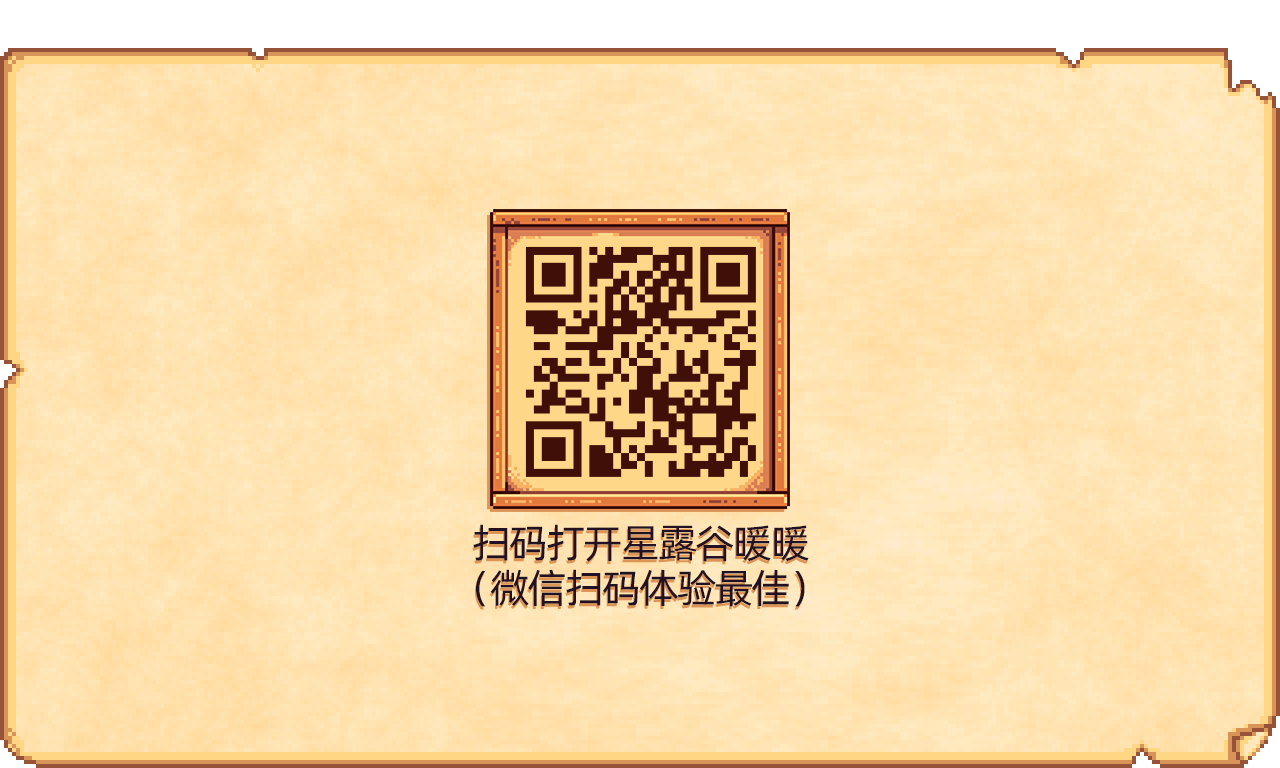
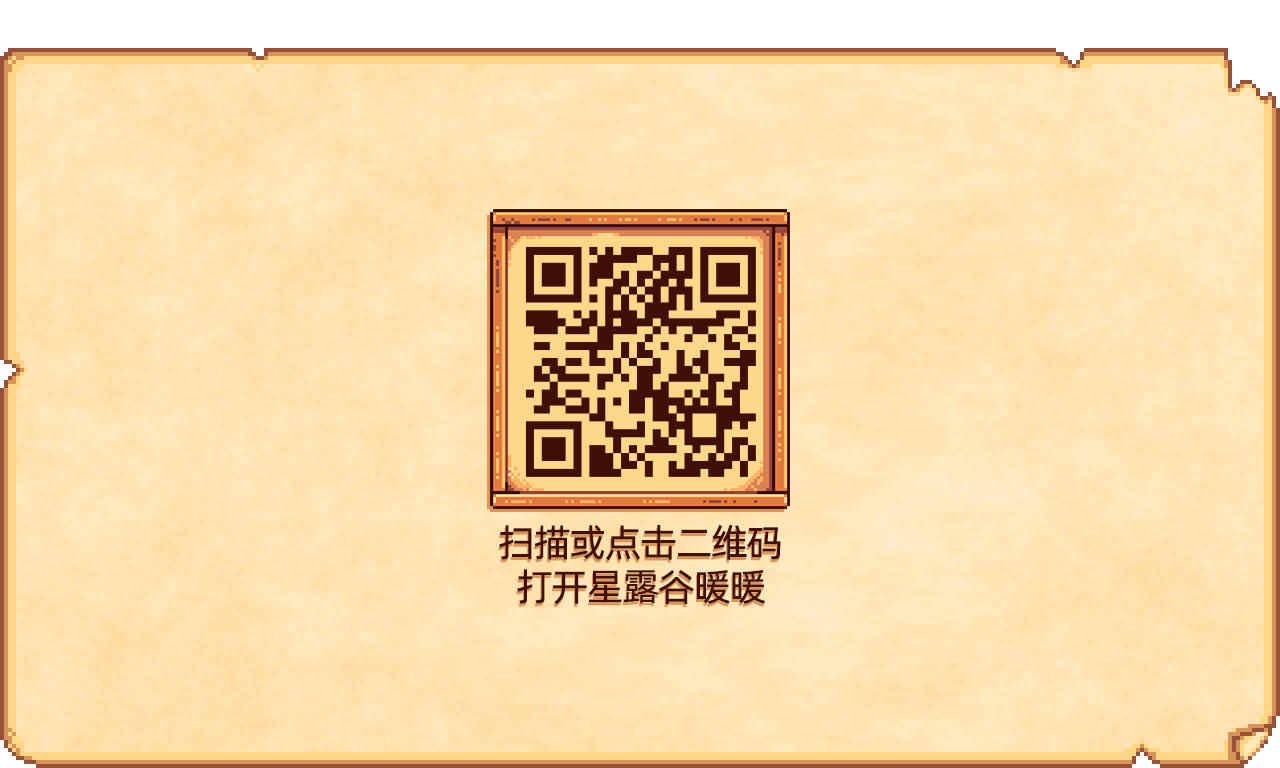
123

Changed region(s): [[0.3438, 0.6875, 0.6562, 0.8125]]

diff --git a/Valley.js b/Valley.js
@@ -810,7 +810,7 @@ Farm.addEventListener("click",function(e){
 								Position_state.splice(tree,1,Is_state);
 								Is_state = Is_state;
 							}else if (Is_state == Position_Number[tree]) {//下一阶段为成熟则跳过成熟阶段
-								Is_state = 2;
+								Is_state = 3;
 								console.log(Is_state);
 								Position_state.splice(tree,1,Is_state);
 							}
@@ -2131,10 +2131,12 @@ if (/(iPhone|iPod|iOS|Android)/i.test(navigator.userAgent)) {
 }
 function Choice() {
 	if (/(iPhone|iPod|iOS|Android)/i.test(navigator.userAgent)) {
-	window.location.href="http://bishengming.gitee.io/pixel/";
+		window.location.href="http://bishengming.gitee.io/pixel/";
 	}
 }
-
+function Choice_pc() {
+	window.open("http://bishengming.gitee.io/pixel/")
+}
 window.onload = function() {
 	if(/Android|webOS|iPhone|iPod|BlackBerry/i.test(navigator.userAgent)) {
 		console.log("手机");
@@ -2592,6 +2594,9 @@ function save_Btn() {
 	} else {
 		alert("此浏览器可能不支持存档功能");
 	}
+	document.getElementById("save-Tips").style.display = "block";
+	document.getElementById("save-Tips").src = "imges/Choice/save.png";
+	setTimeout(function() {document.getElementById("save-Tips").style.display = "none";}, 1000);
 }
 function save_load() {
 	if (localStorage.save_0 == "true" && map_state == 0) {
@@ -2677,7 +2682,7 @@ function save_load() {
 				FarmNumB[Greenhouse_position].firstChild.src = "imges/0.png";
 				FarmNumB[Greenhouse_position].firstChild.style.width = "1em";//设置物品宽度
 				FarmNumB[Greenhouse_position].firstChild.style.height = "1em";//设置物品高度
-				FarmNumB[Greenhouse_position].firstChild.style.zIndex = "0"
+				FarmNumB[Greenhouse_position].firstChild.style.zIndex = "0";
 				sign_X.splice(Greenhouse_position,1,0);//删除宽度标记
 				sign_Y.splice(Greenhouse_position,1,0);//删除高度标记
 				Greenhouse_name = 98;
@@ -2704,7 +2709,7 @@ function save_load() {
 			}else{
 				FarmNumM[Position[i]].firstChild.src = "imges/tool/" + Position_name[i] + ".png";//添加常规贴图
 			}
-			if (Position_name[i] == 0) {
+			if (Position_name[i] == 0 || Position_name[i] == 89) {
 				FarmNumM[Position[i]].firstChild.src = "imges/tool/" + Position_name[i] + "/" + Position_state[i] + ".png";//添加常规贴图
 			}
 			
@@ -2774,8 +2779,14 @@ function save_del() {
 		var del_save_arr = ["save_5","fenceArr_5","fence_name_5","doorArr_5","door_name_5","floorArr_5","floor_name_5","Position_5","Position_Catalog_5","Position_name_5","Position_Season_spring_5","Position_Season_summer_5","Position_Season_autumn_5","Position_Season_winter_5","Position_Number_5","Position_Season_winter_5","Position_Number_5","Position_state_5","Position_sign_X_5","Position_sign_Y_5"];
 	}else{
 		console.log("没有检测到存档!");
+		document.getElementById("save-Tips").style.display = "block";
+		document.getElementById("save-Tips").src = "imges/Choice/none.png";
+		setTimeout(function() {document.getElementById("save-Tips").style.display = "none";}, 1000);
 		return;
 	}
+	document.getElementById("save-Tips").style.display = "block";
+	document.getElementById("save-Tips").src = "imges/Choice/del.png";
+	setTimeout(function() {document.getElementById("save-Tips").style.display = "none";}, 1000);
 	for (var i = 0; i < del_save_arr.length; i++) {
 		localStorage.removeItem(del_save_arr[i]);
 	}

diff --git a/index.html b/index.html
@@ -72,7 +72,7 @@
 	</div>
 	<div id="nuannuan">
 		<img src="imges/Explain/X.png" alt="" class="Course_content_X" onclick="nuannuan_X();">
-		<img src="imges/Explain/nuannuan.png" alt="">
+		<img src="imges/Explain/nuannuan.png" alt="" onclick="Choice_pc();">
 	</div>
 	<div id="Statistics">
 		<img src="imges/Explain/X.png" alt="" class="Course_content_X" onclick="Statistics_X();">
@@ -87,6 +87,7 @@
 			</id>
 		</div>
 	</div>
+	<img src="imges/Choice/save.png" alt="" id="save-Tips">
 	<div id="menu">
 		<div id="menu-body">
 			<div id="menu-body-btn">

diff --git a/Valley.css b/Valley.css
@@ -300,7 +300,7 @@ img{
 	color: #221122;
 	overflow:hidden;
 	text-overflow:ellipsis;
-	white-space:nowrap
+	white-space:nowrap;
 }
 #tool-Title{
 	position: absolute;
@@ -829,4 +829,12 @@ textarea::-webkit-input-placeholder {
 	z-index: 1112;
 	display: none;
 
+}
+#save-Tips{
+	position: absolute;
+	z-index: 999;
+	top: 40%;
+	left: calc(50% - 186px);
+	pointer-events: none;
+	display: none;
 }
